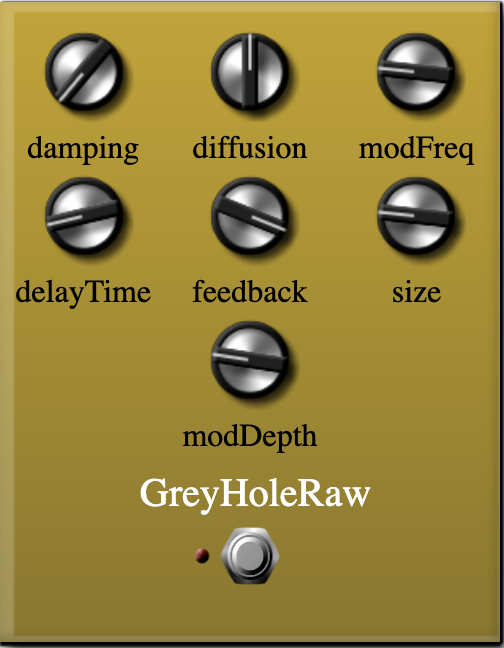
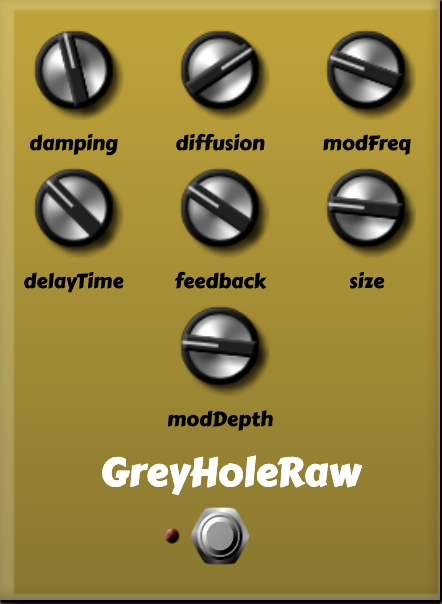
Style of Greyhole

Changed region(s): [[0.0, 0.0, 1.0, 1.0], [0.0294, 0.0596, 0.2941, 0.4768], [0.7059, 0.0596, 0.9412, 0.4768]]

diff --git a/jordan-SINTES/GreyHoleRaw/main.html b/jordan-SINTES/GreyHoleRaw/main.html
@@ -1,3 +1,5 @@
+<link rel="stylesheet"
+          href="https://fonts.googleapis.com/css?family=Carter+One">
 <script
     src="https://wasabi.i3s.unice.fr/WebAudioPluginBank/bower_components/webaudio-controls2/webcomponents-lite.js"></script>
 <script>
@@ -10,16 +12,17 @@
 <template>
     <style>
         :host {
-            font: "DarkMoon", 'Arial Black';
             display: block;
             box-shadow: 4px 5px 6px rgba(0, 0, 0, 0.7), inset -2px -2px 5px 0px rgba(0, 0, 0, 0.2), inset 3px 1px 1px 4px rgba(255, 255, 255, 0.2), 1px 0px 1px 0px rgba(0, 0, 0, 0.9), 0 2px 1px 0 rgba(0, 0, 0, 0.9), 1px 1px 1px 0px rgba(0, 0, 0, 0.9);
             background: linear-gradient(rgb(197, 164, 18), rgb(139, 119, 30));
             position: relative;
-            width: 250px;
-            height: 320px;
+            width: 220px;
+            height: 300px;
             user-select: none;
             cursor: move;
             z-index: 9;
+            font-family: "Carter One";
+            font-size: 10px
             /* bring your own prefixes */
         }
 
@@ -73,11 +76,10 @@
 
 
         .pedalLabel {
-            margin-left: 70px;
+            margin-left: 50px;
             top: 225px;
             font-size: 20px;
             /*{font}*/
-            font-family: "DarkMoon";
             text-align: center;
             line-height: 30px;
             /*{pedalfontsize}*/
@@ -207,11 +209,11 @@
             this.boundingRect = {
                 dataWidth: {
                     type: Number,
-                    value: 250
+                    value: 220
                 },
                 dataHeight: {
                     type: Number,
-                    value: 320
+                    value: 300
                 }
             };
             return this.boundingRect;
